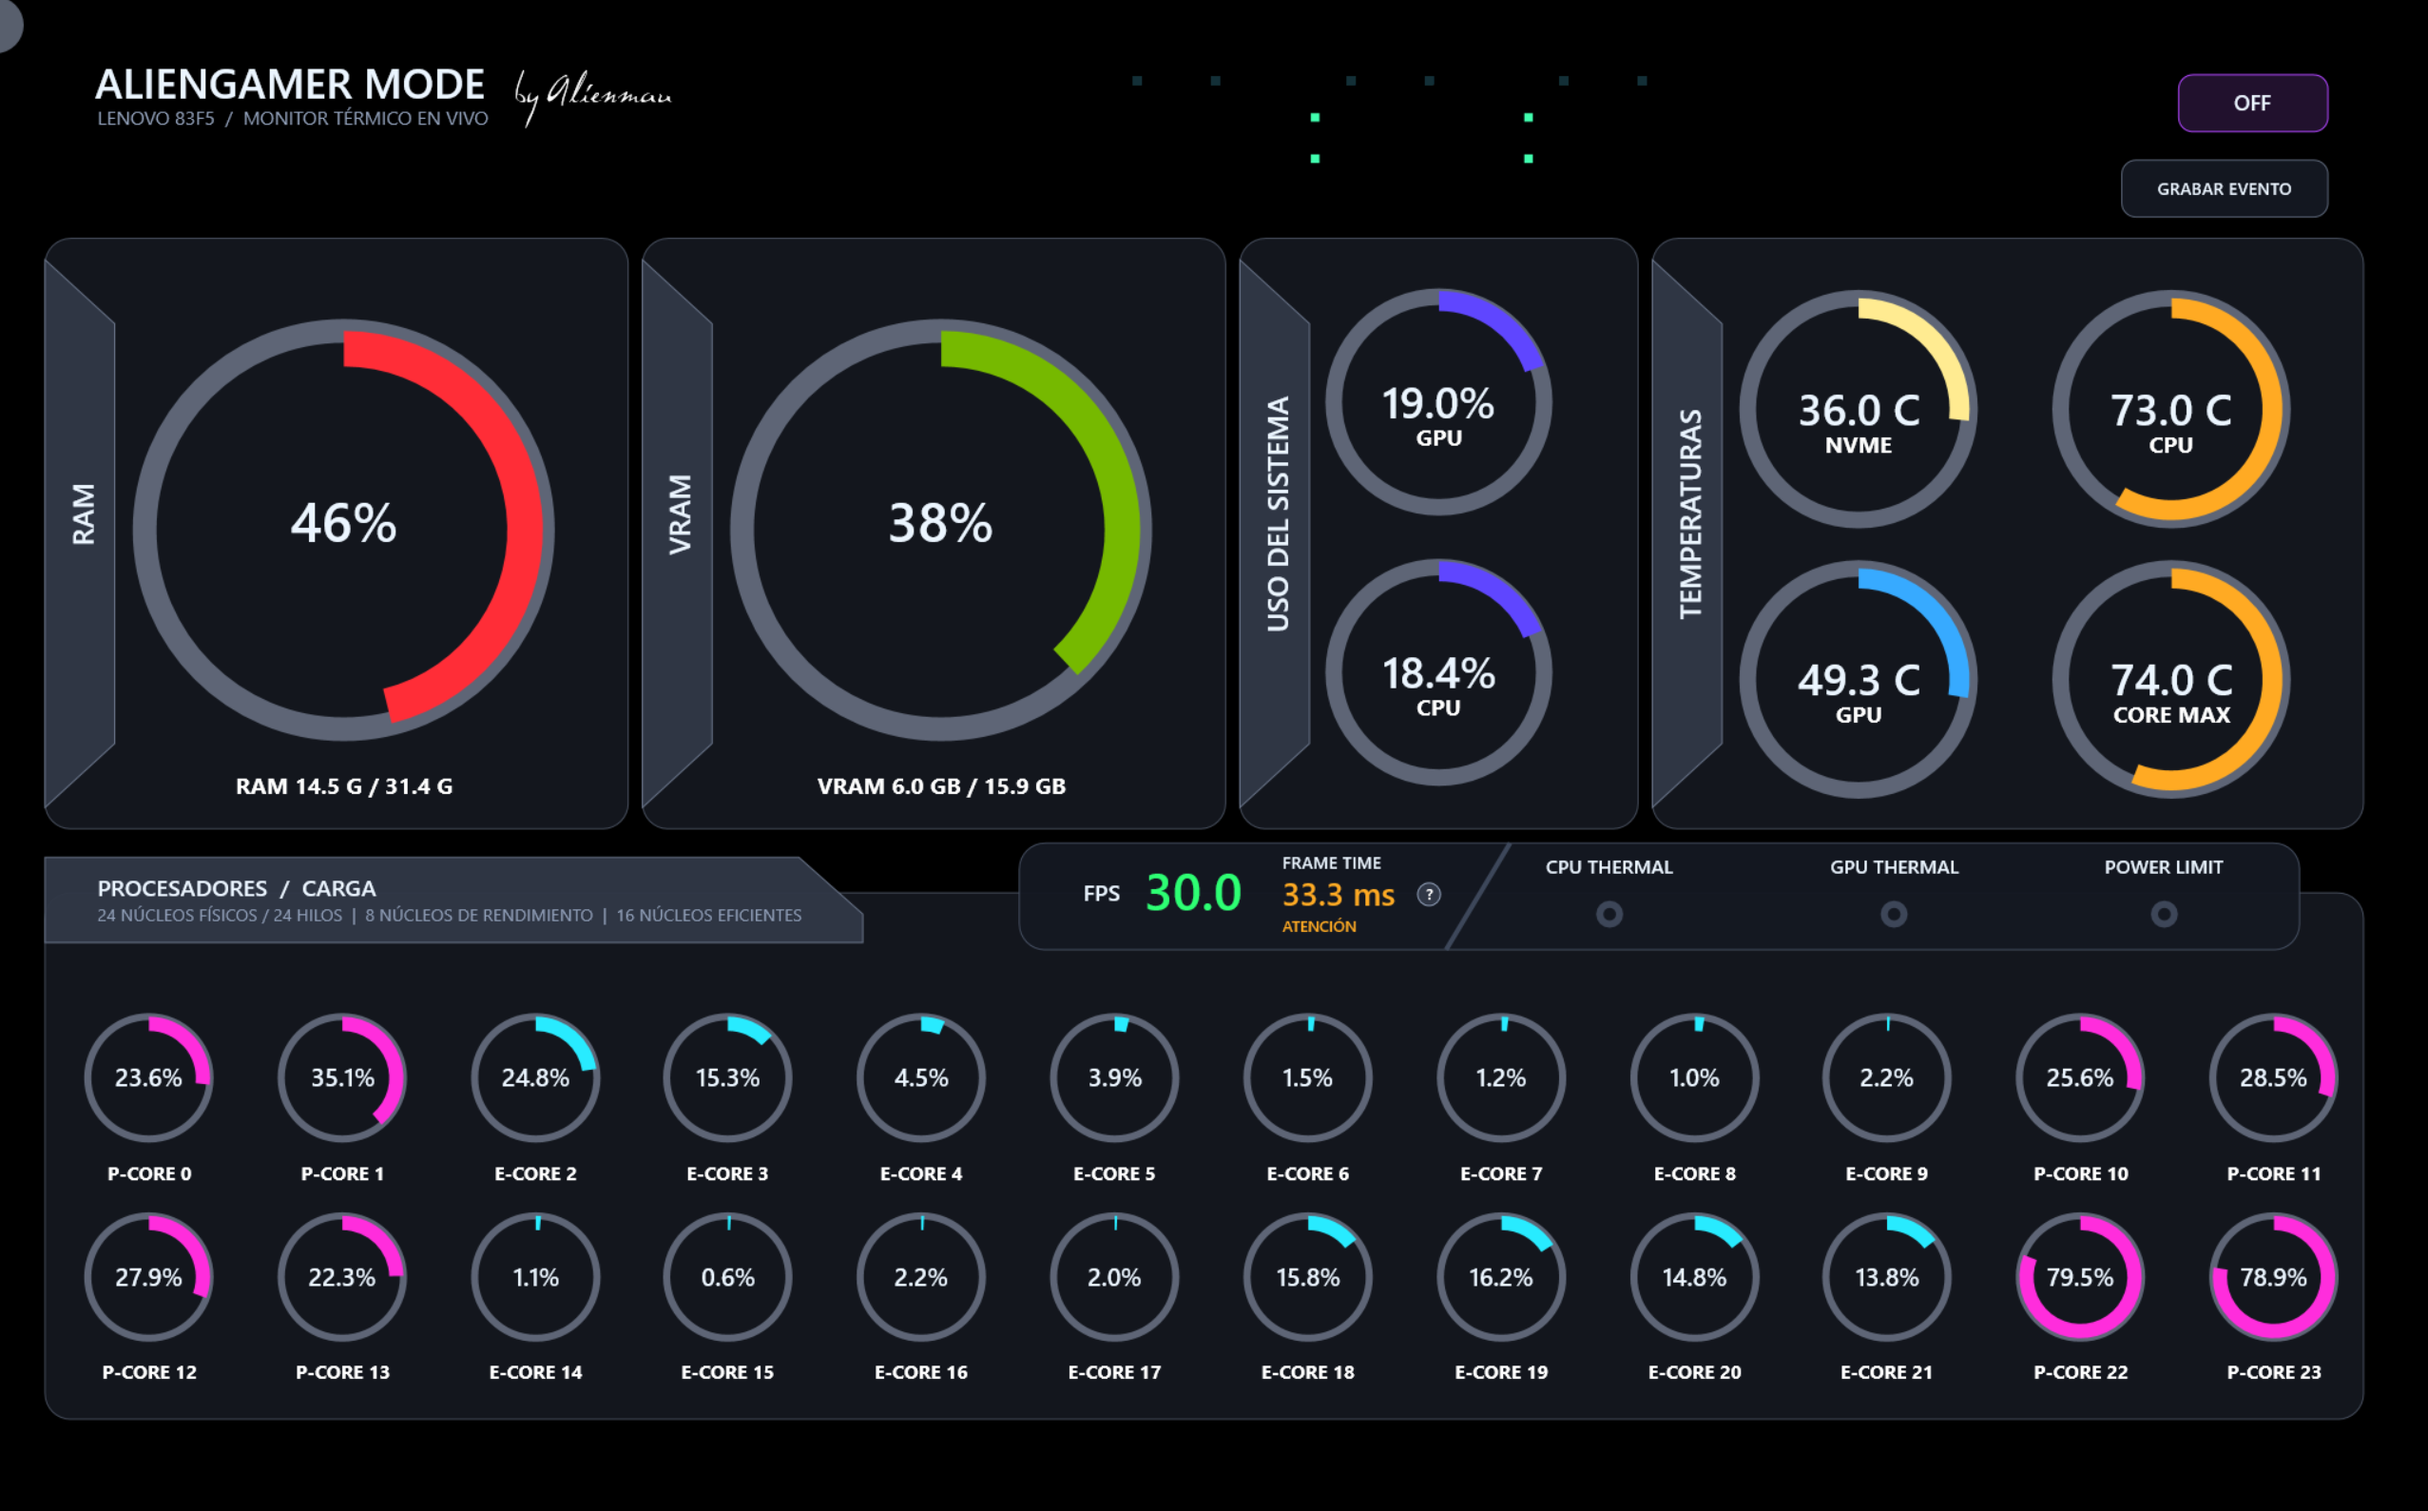
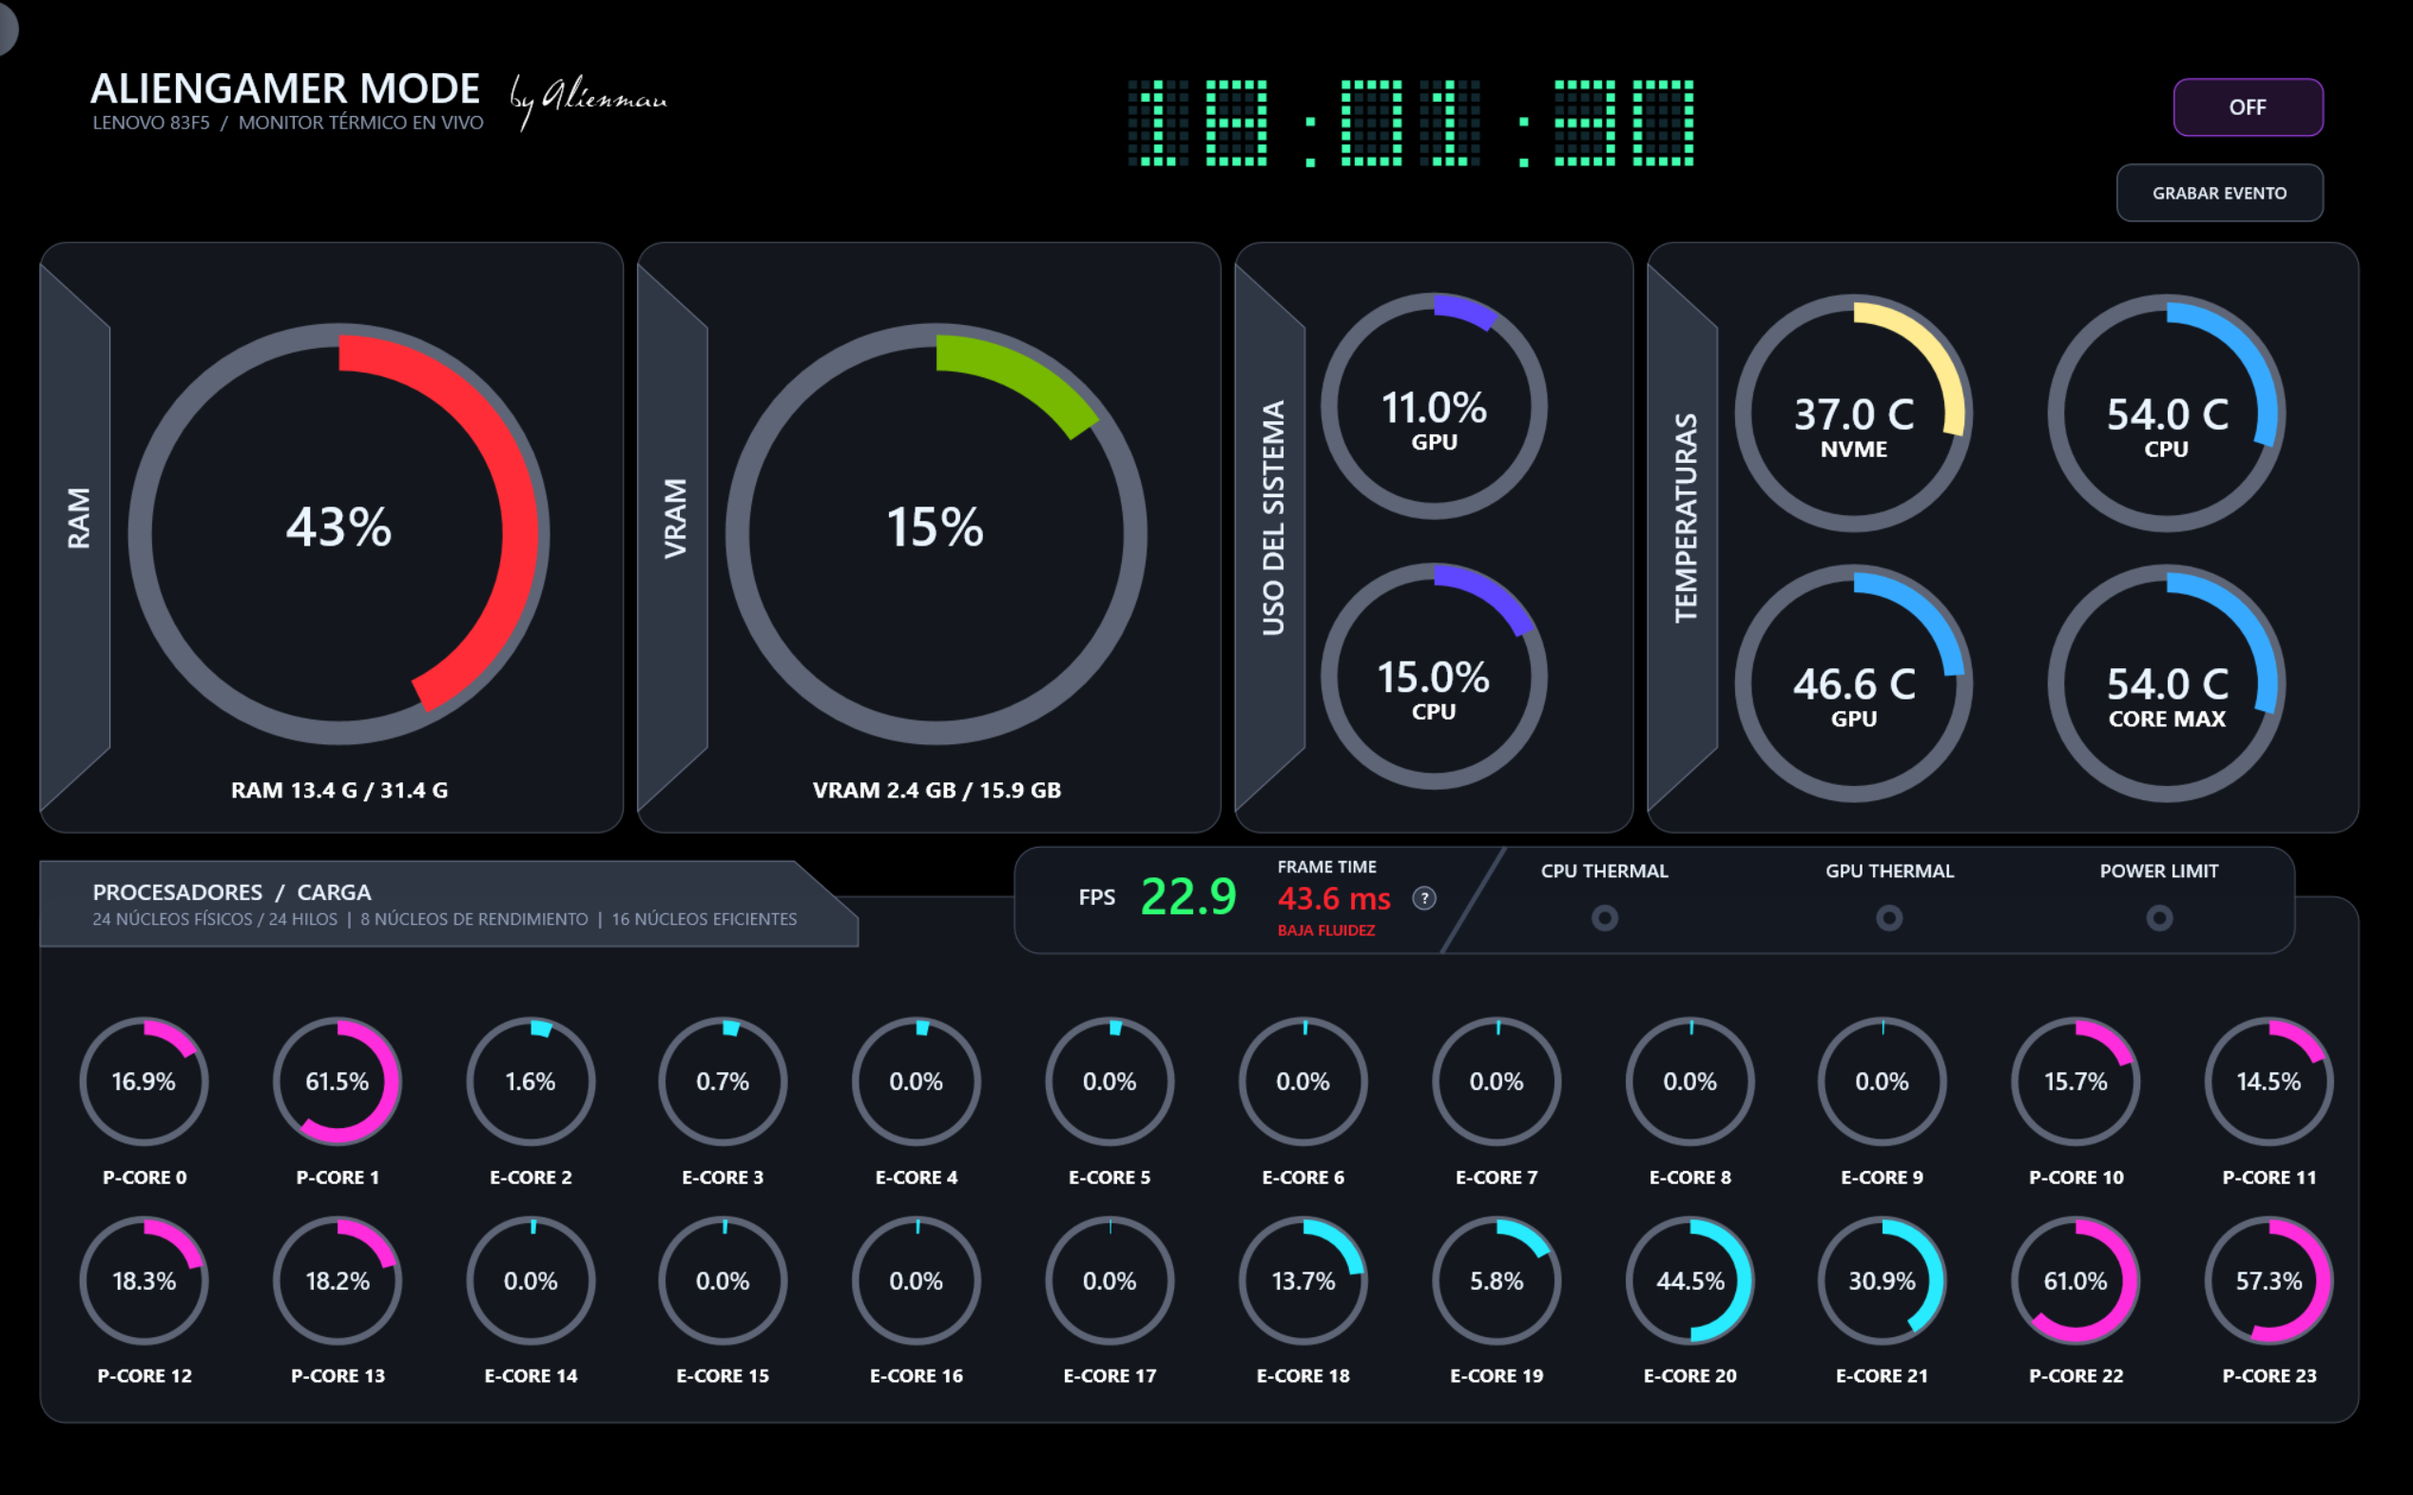
Mejorar captura y documentar grabación de eventos

diff --git a/README.md b/README.md
@@ -39,6 +39,20 @@ Rainmeter y HWiNFO son productos externos y no se distribuyen dentro de este rep
 
 Consulta [Requisitos previos](docs/REQUISITOS-PREVIOS.md) y la [Guía de instalación manual](docs/GUIA-INSTALACION-MANUAL.md) si necesitas configurar HWiNFO o resolver un problema.
 
+## Grabar un evento de rendimiento
+
+Si durante una partida notas tirones, congelamientos, teletransportes, caídas de fluidez o cualquier comportamiento extraño, pulsa **Grabar evento** en el panel o en el icono de la bandeja. El botón cambia a **Finalizar grabación** mientras la captura está activa.
+
+AlienGamer Mode toma muestras durante ese intervalo y conserva, cuando el equipo dispone de ellas, métricas como FPS, *frame time*, uso y temperatura de CPU y GPU, VRAM, RAM, temperatura del almacenamiento, carga por núcleo y señales de límite térmico o de potencia. Al finalizar, solicita dónde guardar un reporte de Excel con:
+
+- cronología de las muestras;
+- resumen estadístico y valores máximos;
+- alertas observadas durante el evento;
+- procesos activos y contexto del equipo;
+- una interpretación preliminar basada en la evidencia disponible.
+
+El reporte permite relacionar el instante del problema con temperaturas elevadas, saturación de recursos, límites térmicos o de potencia y variaciones anormales del tiempo de cuadro. Puede aportar datos técnicos valiosos a un especialista y ayudar a detectar una condición antes de que se vuelva recurrente. Es una herramienta de orientación: no sustituye los registros internos del juego, diagnósticos SMART detallados, análisis de red ni trazas especializadas, y por sí sola no confirma una falla de hardware.
+
 ## Estructura del proyecto
 
 - `assets/`: logotipo, icono y firma convertida a imagen.
@@ -70,7 +84,7 @@ Antes de publicar una versión se recomienda probarla en equipos NVIDIA, AMD e I
 
 ## Privacidad y seguridad
 
-El monitor trabaja localmente. Los registros solo se crean cuando el usuario inicia una grabación y se guardan en la ubicación elegida. No publiques reportes que contengan información que consideres privada.
+El monitor trabaja localmente. Los registros solo se crean cuando el usuario inicia una grabación y se guardan en la ubicación elegida. El reporte puede incluir nombres de procesos y características del equipo; revísalo antes de compartirlo y no publiques información que consideres privada.
 
 Los problemas de seguridad deben reportarse siguiendo [SECURITY.md](SECURITY.md), no como una incidencia pública.
 

diff --git a/docs/GUIA-INSTALACION-MANUAL.md b/docs/GUIA-INSTALACION-MANUAL.md
@@ -35,6 +35,16 @@ Mientras el agente está abierto, el logotipo aparece en los iconos ocultos de W
 
 **Detener monitor** desactiva la skin y cierra el puente, pero conserva el agente en la bandeja para poder activarlo nuevamente. **Cerrar AlienGamer Mode** también retira el agente. HWiNFO y Rainmeter sólo se cierran automáticamente cuando fueron iniciados por esta edición. Si existe una grabación, se finaliza antes de detener el monitor.
 
+## Grabar evento
+
+Usa **Grabar evento** justo cuando notes tirones, congelamientos, saltos, teletransportes, caídas de FPS o una respuesta anormal del juego. Durante la captura el control cambia a **Finalizar grabación** y el testigo rojo indica que se están tomando muestras.
+
+Al finalizar, el programa solicita dónde guardar un libro de Excel. El reporte reúne la línea temporal de FPS, *frame time*, RAM, VRAM, uso y temperatura de CPU/GPU, temperatura del almacenamiento, carga por procesador lógico y alertas térmicas o de potencia que estén disponibles. También contiene un resumen, máximos, percentiles, procesos activos y una interpretación preliminar.
+
+Este documento puede ayudar a relacionar el momento exacto del problema con calentamiento, saturación, *throttling*, límites de potencia o inestabilidad del tiempo de cuadro. Resulta útil para que un técnico investigue con más contexto y para detectar tendencias antes de que sean recurrentes. No representa un diagnóstico definitivo: algunas causas requieren además registros del juego, red, controladores, SMART detallado o trazas especializadas.
+
+Si la creación del libro falla, la captura CSV se conserva en `%LOCALAPPDATA%\AlienGamerMode\GrabacionesPendientes` para no perder la evidencia.
+
 ## Diagnóstico
 
 Los archivos de diagnóstico se guardan en `%LOCALAPPDATA%\AlienGamerMode`:
